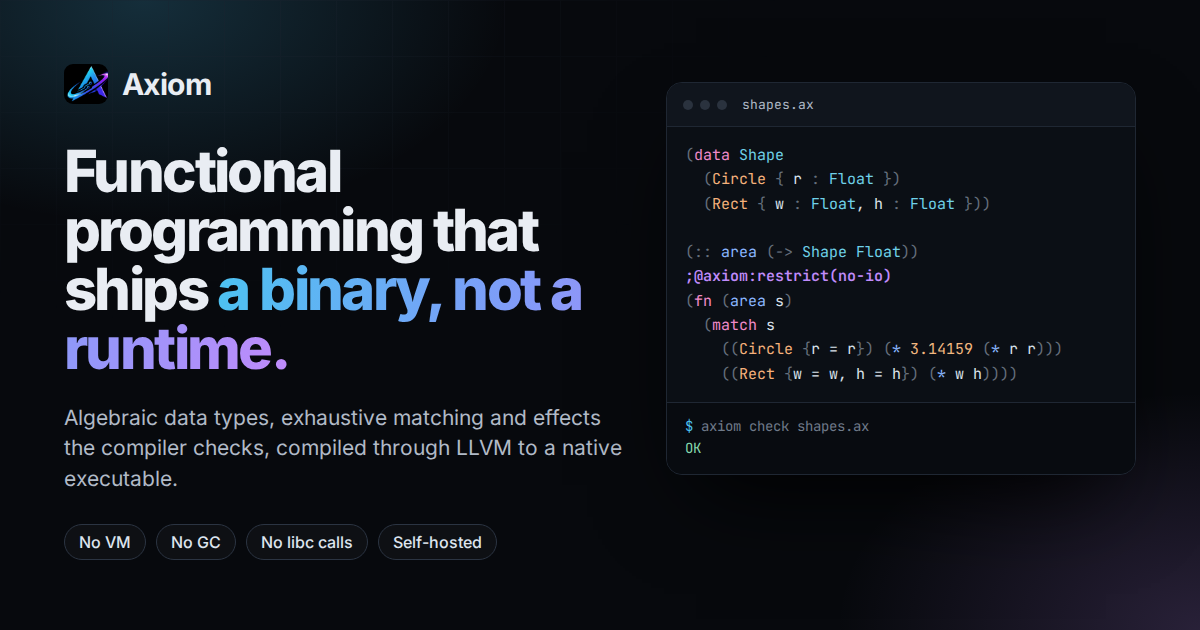
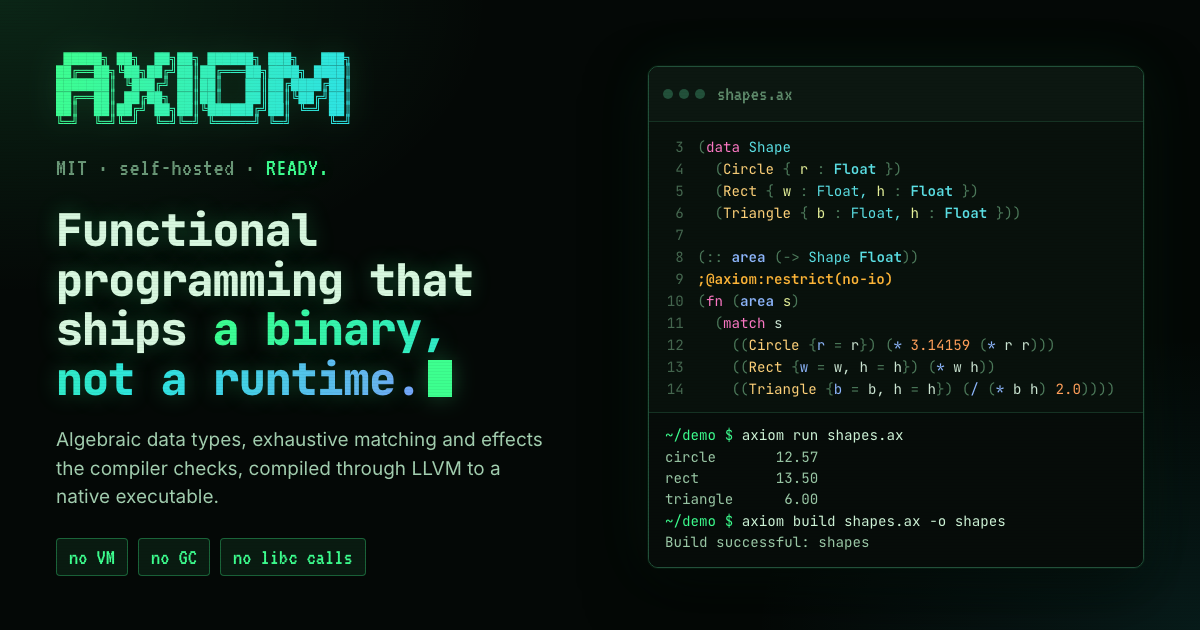
Website: a social card in the CRT look, and a preview URL that moves with it
The link preview still showed the purple-gradient design that
40d32f64 replaced with phosphor green on CRT black: nothing ties
og.png to the page. The new card is rendered from the site itself -
its stylesheet, its banner, its highlighter and `.ink` palette - with
the demo's own program and the `axiom run` / `axiom build` output
check-samples.mjs pins, and no version number or count to go stale.
It was screenshotted at 1200x630 by a headless browser from a
throwaway page under `vite` that imported those modules; the page is
not committed.

A preview is cached by URL, by the platform and again by its image
proxy, so the same address can keep serving the old card. prerender
now appends `?v=` and the first 12 hex of the card's SHA-256 to both
image tags (asserting there are exactly two), so a new card is a new
URL and an unchanged one keeps its cache.

sitemap.xml had no <lastmod>. prerender stamps one from the last
commit that touched web/ - the pushed commit in the Pages build's
one-commit checkout - and refuses one written by hand, since a typed
date is right for one deploy only. The site is still one page, so the
sitemap is still one URL. og:image:alt describes the new card.

npm run build (check-claims, tsc, bundle, prerender) and smoke.mjs
pass; dist carries og.png?v=082cdfeecd17 and lastmod 2026-09-27.

diff --git a/web/index.html b/web/index.html
@@ -23,7 +23,7 @@
     <meta property="og:image" content="https://chrispaig3.github.io/Axiom/og.png" />
     <meta property="og:image:width" content="1200" />
     <meta property="og:image:height" content="630" />
-    <meta property="og:image:alt" content="Axiom: functional programming that ships a binary, not a runtime. A code window shows a Shape type, a function restricted from performing I/O, and axiom check answering OK." />
+    <meta property="og:image:alt" content="Axiom: functional programming that ships a binary, not a runtime. A green-on-black terminal shows shapes.ax, a Shape type and an area function restricted from performing I/O, then axiom run printing three areas and axiom build producing a native executable." />
     <meta name="twitter:card" content="summary_large_image" />
     <meta name="twitter:image" content="https://chrispaig3.github.io/Axiom/og.png" />
     <meta name="twitter:title" content="Axiom — functional programming that ships a binary, not a runtime" />
